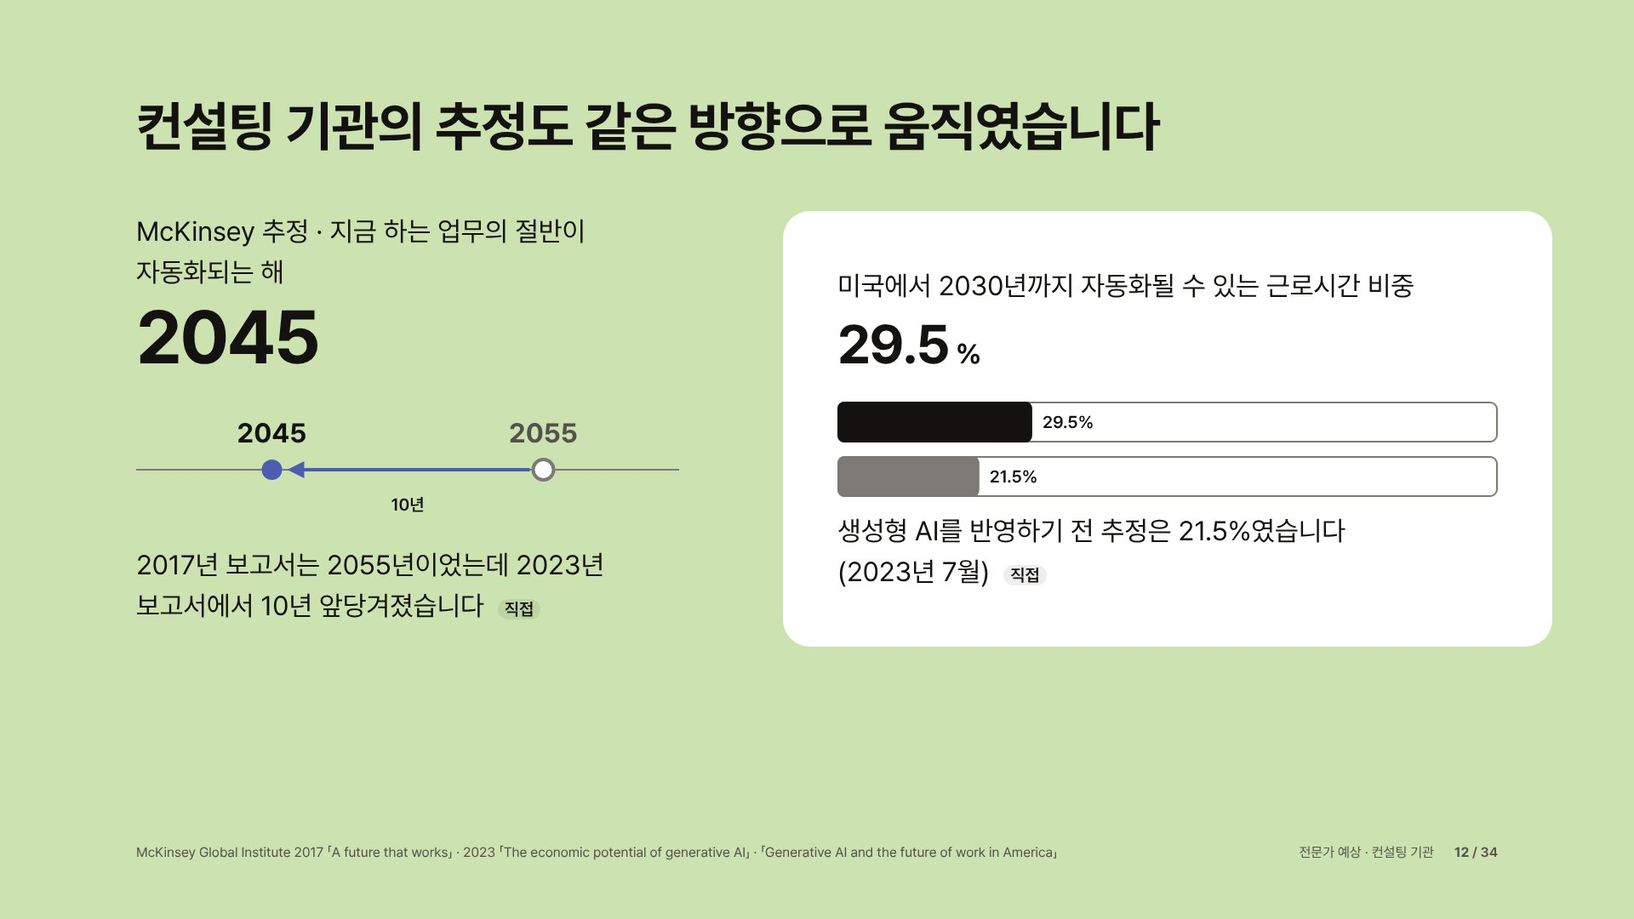
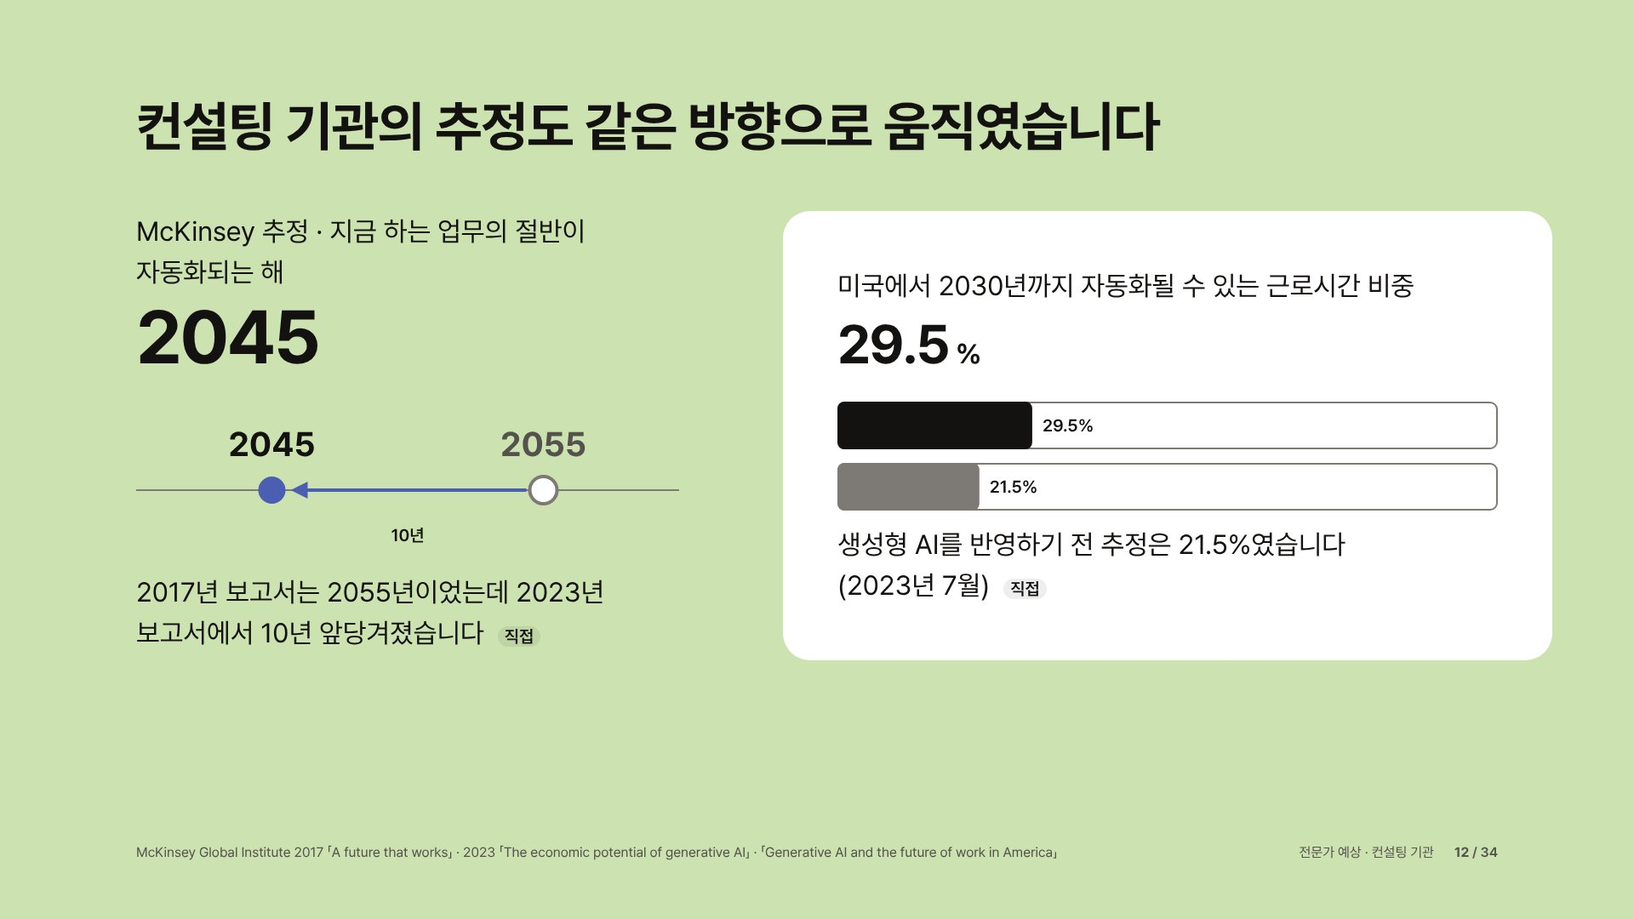
PR2 5회차 — 본문 내용이 결론 줄까지 채움(4장), 17·24장 data-h는 PR3 소유로 기록, minor 정리
- 4장 숫자 면 설명 4줄·간격 48: 본문 끝→결론 선 116 → 84px(본문→결론 32·결론→꼬리말 24 유지)
- 17·24장 차트 높이는 index.html data-h(PR3) 고정 — 480·440 시험으로 84·72px 확인 후 되돌림, 교차 PR로 기록
- 5·21·29장 본문→결론→꼬리말 실측 표, 12장 값 그림 한 단계, 21장 막대 라벨 연도로
- 9장 올트먼 칸 조끼 조각 제거, 30장 같은 행 첫 줄 맞춤, PR-body에 허사비스 사진 인물 확인 필요 기록

Claude-Session: https://claude.ai/code/session_011hN7365EMiHYt3VEVc26nk

diff --git a/presentation/index.html b/presentation/index.html
@@ -217,8 +217,8 @@
     <h2 class="headline">컨설팅 기관의 추정도 같은 방향으로 움직였습니다</h2>
   </div>
   <div class="body cols pair">
-    <div class="c5 fig-col"><div><p>McKinsey 추정 · 지금 하는 업무의 절반이 자동화되는 해</p><div class="num fig">2045</div></div><svg class="yrs" viewBox="0 0 638 136" width="638" height="136" aria-hidden="true"><line class="ax" x1="0" y1="64" x2="638" y2="64"/><path class="mv" d="M462.5 64 L181.5 64" marker-end="url(#yrsa)"/><defs><marker id="yrsa" viewBox="0 0 10 10" refX="8" refY="5" markerWidth="5" markerHeight="5" orient="auto-start-reverse"><path class="mvh" d="M0 0L10 5L0 10z"/></marker></defs><circle class="old" cx="478.5" cy="64" r="12"/><circle class="new" cx="159.5" cy="64" r="12"/><text class="yl old" x="478.5" y="32" text-anchor="middle">2055</text><text class="yl new" x="159.5" y="32" text-anchor="middle">2045</text><text class="vl" x="319.0" y="112" text-anchor="middle">10년</text></svg><p>2017년 보고서는 2055년이었는데 2023년 보고서에서 10년 앞당겨졌습니다 <span class="tag">직접</span></p></div>
-    <div class="c6 at7 fig-col panel end p-paper"><div><p>미국에서 2030년까지 자동화될 수 있는 근로시간 비중</p><div class="num big">29.5<span class="unit">%</span></div><svg class="share" viewBox="0 0 776 112" width="776" height="112" aria-hidden="true"><rect class="tr" x="1" y="1" width="774" height="46" rx="8"/><rect class="now" x="0" y="0" width="228.9" height="48" rx="8"/><text class="vl" x="240.9" y="31.0">29.5%</text><rect class="tr" x="1" y="65" width="774" height="46" rx="8"/><rect class="was" x="0" y="64" width="166.8" height="48" rx="8"/><text class="vl" x="178.8" y="95.0">21.5%</text></svg></div><p>생성형 AI를 반영하기 전 추정은 21.5%였습니다<span class="nowrap">(2023년 7월)</span> <span class="tag">직접</span></p></div>
+    <div class="c5 fig-col"><div><p>McKinsey 추정 · 지금 하는 업무의 절반이 자동화되는 해</p><div class="num fig">2045</div></div><svg class="yrs" viewBox="0 0 638 168" width="638" height="168" aria-hidden="true"><line class="ax" x1="0" y1="88" x2="638" y2="88"/><path class="mv" d="M458.5 88 L185.5 88" marker-end="url(#yrsa)"/><defs><marker id="yrsa" viewBox="0 0 10 10" refX="8" refY="5" markerWidth="5" markerHeight="5" orient="auto-start-reverse"><path class="mvh" d="M0 0L10 5L0 10z"/></marker></defs><circle class="old" cx="478.5" cy="88" r="16"/><circle class="new" cx="159.5" cy="88" r="16"/><text class="yl old" x="478.5" y="48" text-anchor="middle">2055</text><text class="yl new" x="159.5" y="48" text-anchor="middle">2045</text><text class="vl" x="319.0" y="148" text-anchor="middle">10년</text></svg><p>2017년 보고서는 2055년이었는데 2023년 보고서에서 10년 앞당겨졌습니다 <span class="tag">직접</span></p></div>
+    <div class="c6 at7 fig-col panel end p-paper"><div><p>미국에서 2030년까지 자동화될 수 있는 근로시간 비중</p><div class="num big">29.5<span class="unit">%</span></div><svg class="share" viewBox="0 0 776 128" width="776" height="128" aria-hidden="true"><rect class="tr" x="1" y="1" width="774" height="54" rx="8"/><rect class="now" x="0" y="0" width="228.9" height="56" rx="8"/><text class="vl" x="240.9" y="35.0">29.5%</text><rect class="tr" x="1" y="73" width="774" height="54" rx="8"/><rect class="was" x="0" y="72" width="166.8" height="56" rx="8"/><text class="vl" x="178.8" y="107.0">21.5%</text></svg></div><p>생성형 AI를 반영하기 전 추정은 21.5%였습니다<span class="nowrap">(2023년 7월)</span> <span class="tag">직접</span></p></div>
   </div>
   <div class="foot"><span class="source">McKinsey Global Institute 2017 「A future that works」 · 2023 「The economic potential of generative AI」 · 「Generative AI and the future of work in America」</span><span class="where"><span class="sec">전문가 예상 · 컨설팅 기관</span><span class="pg"><b></b> / <span class="tot"></span></span></span></div>
 </section>
@@ -379,7 +379,7 @@
     <h2 class="headline">속도를 늦출 가장 큰 제약은 전기입니다</h2>
   </div>
   <div class="body cols pair">
-    <div class="c6 fig-col"><div><p>데이터센터 전체 전력 증가</p><div class="num big">15<span class="unit">%/년</span></div></div><svg class="twh" viewBox="0 0 776 112" width="776" height="112" aria-hidden="true"><rect class="lo" x="0" y="0" width="263.5" height="48" rx="8"/><text class="vl" x="275.5" y="31.0">415TWh(2024)</text><rect class="on" x="0" y="64" width="600.0" height="48" rx="8"/><text class="vl" x="612.0" y="95.0">945TWh(2030)</text></svg><p>IEA 415TWh(2024) → 945TWh(2030). Epoch AI는 2030년 무렵 가장 먼저 걸릴 제약으로 전력을 지목</p></div>
+    <div class="c6 fig-col"><div><p>데이터센터 전체 전력 증가</p><div class="num big">15<span class="unit">%/년</span></div></div><svg class="twh" viewBox="0 0 776 112" width="776" height="112" aria-hidden="true"><rect class="lo" x="0" y="0" width="263.5" height="48" rx="8"/><text class="vl" x="275.5" y="31.0">2024</text><rect class="on" x="0" y="64" width="600.0" height="48" rx="8"/><text class="vl" x="612.0" y="95.0">2030</text></svg><p>IEA 415TWh(2024) → 945TWh(2030). Epoch AI는 2030년 무렵 가장 먼저 걸릴 제약으로 전력을 지목</p></div>
     <div class="c5 at8 fig-col panel end p-mist"><div><p>가장 큰 AI 모델 학습에 드는 전력</p><div class="num fig">2.9<span class="unit">배/년</span></div></div><svg class="eq" viewBox="0 0 638 176" width="638" height="176" aria-hidden="true"><rect class="lo" x="0" y="0" width="542.0" height="48" rx="8"/><text class="vl" x="554.0" y="31.0">4.1배</text><rect class="lo" x="0" y="64" width="186.4" height="48" rx="8"/><text class="vl" x="198.4" y="95.0">1.41배</text><rect class="on" x="0" y="128" width="383.4" height="48" rx="8"/><text class="vl" x="395.4" y="159.0">2.9배</text></svg><p class="k">학습 연산 증가 연 4.1배를 칩 효율 개선 연 1.41배로 <span class="nowrap">나눈 값</span> <span class="tag est">추정</span></p></div>
   </div>
   <div class="sowe"><b>핵심</b><span>모형에서는 신중 시나리오가 '2028년부터 전력 제약으로 두 배가 되는 기간이 1년으로 늘어나는' 경로입니다</span></div>

diff --git a/presentation/src/slides.css b/presentation/src/slides.css
@@ -462,7 +462,7 @@ body.final .cover .object img { transition: none; }
 .sl8 .bars { justify-content: flex-start; }
 /* 9: 인물 사진은 얼굴 기준으로 자른다(허사비스 사진은 왼쪽 대화 상대를 빼고 본인 쪽만) */
 .s9 .who { align-content: start; }
-.who:nth-child(1) .photo img { position: absolute; left: -25%; top: -30px; width: 130%; height: auto; max-width: none; } /* 왼쪽 옆 사람 어깨를 빼고 얼굴 기준 */
+.who:nth-child(1) .photo img { position: absolute; left: -34%; top: -30px; width: 142%; height: auto; max-width: none; } /* 왼쪽 옆 사람 어깨를 빼고 얼굴 기준 */
 .who:nth-child(2) .photo img { object-position: 50% 10%; }
 .who:nth-child(3) .photo img { position: absolute; left: -70%; top: -14%; width: 174%; height: auto; max-width: none; } /* 원본 오른쪽(본인 쪽)만: 모든 브라우저에서 같은 크롭(object-view-box 안 씀) */
 /* 14: 32 본문, 차트 제목도 32 굵게(크기 단계 5개) */
@@ -544,7 +544,7 @@ body.final .cover .object img { transition: none; }
 :is(.lags, .twh, .eq) .lo { fill: var(--line-strong); } :is(.lags, .twh, .eq) .on { fill: var(--accent); }
 .yrs .ax { stroke: var(--line-strong); stroke-width: 2; } .yrs .mv { fill: none; stroke: var(--accent); stroke-width: 4; } .yrs .mvh { fill: var(--accent); }
 .yrs circle.old { fill: var(--paper); stroke: var(--line-strong); stroke-width: 4; } .yrs circle.new { fill: var(--accent); }
-.yrs .yl { font: var(--t-title) var(--font); } .yrs .yl.old { fill: var(--muted); } .yrs .yl.new { fill: var(--ink); }
+.yrs .yl { font: var(--t-number) var(--font); } .yrs .yl.old { fill: var(--muted); } .yrs .yl.new { fill: var(--ink); }
 :is(.share, .lags, .yrs, .twh, .eq) .vl { font: var(--t-small-strong) var(--font); fill: var(--ink); }
 .twh .on { fill: var(--ink); } /* 21장 인디고는 2.9배 한 곳만 */
 /* 3장: 질문 세 줄 사이를 48로(면 높이는 내용으로), 8장: 막대를 한 단계 키움 */
@@ -556,3 +556,8 @@ body.final .cover .object img { transition: none; }
 .sl8 .bar-row .lab { font: var(--t-body) var(--font); }
 .panel.tbl .plan.big td { padding-top: var(--g8); padding-bottom: var(--g8); }
 .s23 .calc td { padding-top: 0; }
+/* 5회차: 4장 숫자 면이 본문 높이를 내용으로 채움(설명 줄 폭 16em → 4줄, 숫자와 설명 사이 32) — 본문 끝→결론 선 < 96 */
+.s4 .lead-fig { gap: var(--g48); }
+.s4 .lead-fig .k { max-width: 16em; }
+/* 30장: 같은 행의 왼쪽 근거·쟁점·오른쪽 근거 첫 줄을 같은 높이에(형제 문단 위 여백 8을 지움) */
+.body .vsr > p.ai, .body .vsr > p.iss, .body .vsr > p.ot { margin-top: 0; }

diff --git a/qa/reports/pr2.md b/qa/reports/pr2.md
@@ -15,7 +15,7 @@
 
 ## 실행
 
-- 실행: 2026-10-16T19:39:06.132Z · 커밋 cc72436 (덱 파일 미커밋 변경 있음) · 덱 해시 7dc8b64f5b55 · 511초
+- 실행: 2026-10-16T20:36:36.299Z · 커밋 e1d22a6 (덱 파일 미커밋 변경 있음) · 덱 해시 1b699f6089e7 · 433초
 - 명령: `cd presentation && bun scripts/visual-qa.ts --label pr2 --compare=baseline-cloud` · 파이썬 `python3`
 - 스크린샷 링크(`../shots/<label>/`)는 커밋하지 않는다(.gitignore). 같은 명령으로 다시 만든다. 기준선 장 렌더는 커밋된 `qa/before/slide-NN.jpg`와 같다
 - 이 환경에 없는 도구: axe-core · Lighthouse · tesseract → 해당 조건은 직접 잰 근사로 판정하고 '부분' 표시(아래 조건별 메모). OCR은 tesseract 대신 macOS Vision(scripts/ocr_vision.swift, 이번 실행에선 못 씀)으로 IMG-02·RSP-02를 판정
@@ -70,7 +70,7 @@
 | [GRAD-01](#grad-01) | automated | 자동 | 통과 |  |  |
 | [GRAD-02](#grad-02) | both | 자동+수동 | 통과(자동)·수동 남음 |  |  |
 | [GRAD-03](#grad-03) | automated | 자동 | 통과 |  |  |
-| [TYP-01](#typ-01) | automated | 자동 | 실패 ⚠회귀 | 덱 전체 | 다른 글꼴로 렌더: Deck Sans Subset (30534 글리프) |
+| [TYP-01](#typ-01) | automated | 자동 | 실패 ⚠회귀 | 덱 전체 | 다른 글꼴로 렌더: Deck Sans Subset (30502 글리프) |
 | [TYP-02](#typ-02) | automated | 자동 | 실패 | 덱 전체 | charts.js:87 font-size 15 하드코딩(프리셋 밖) |
 | [TYP-03](#typ-03) | automated | 자동 | 통과 |  |  |
 | [TYP-04](#typ-04) | automated | 자동 | 통과 |  |  |
@@ -158,14 +158,14 @@
 | [MOT-08](#mot-08) | both | 자동+수동 | 실패 | 4, 8, 12, 18, 19, 21, 23 | 숫자 팝인 3개(>1) |
 | [MOT-09](#mot-09) | both | 자동+수동 | 실패 | 덱 전체 | design-standard에 모션 목록 절 없음 |
 | [MOT-10](#mot-10) | automated | 자동 | 통과 |  |  |
-| [MOT-11](#mot-11) | automated | 자동 | 실패 | 7 | 탭 복귀 100ms 뒤 차트 빌드 90/2290ms — 반쯤 그려진 채로 보임(3200ms 뒤 2290ms) |
+| [MOT-11](#mot-11) | automated | 자동 | 실패 | 7 | 탭 복귀 100ms 뒤 차트 빌드 92/2290ms — 반쯤 그려진 채로 보임(3198ms 뒤 2290ms) |
 | [A11Y-01](#a11y-01) | automated | 자동 | 실패 | 덱 전체 | 현재 장이 아닌데 inert·aria-hidden 아닌 장 33/33 |
 | [A11Y-02](#a11y-02) | automated | 자동 | 실패 | 덱 전체 | aria-live=polite 영역 없음 |
 | [A11Y-03](#a11y-03) | automated | 자동 | 실패 | 4, 8, 11, 12, 13, 14, 15, 16, 18, 19, 21, 26 | 쪼갠 숫자 "105" aria-label 없음 |
 | [A11Y-04](#a11y-04) | automated | 부분 | 통과 |  |  |
 | [A11Y-05](#a11y-05) | automated | 자동 | 실패 | 덱 전체 | JS 끔: 빈 차트 9(metr_horizon, agi_forecast_shift, espai_two_clocks, occ_scatter, occ_quintile, kr_occupation_index, proj_ca |
 | [A11Y-06](#a11y-06) | automated | 자동 | 통과 |  |  |
-| [PERF-01](#perf-01) | automated | 부분 | 실패 | 덱 전체 | LCP 3040ms(>2500) |
+| [PERF-01](#perf-01) | automated | 부분 | 실패 | 덱 전체 | LCP 3232ms(>2500) |
 | [PERF-02](#perf-02) | automated | 자동 | 통과 |  |  |
 | [PERF-03](#perf-03) | automated | 자동 | 통과 |  |  |
 | [PERF-04](#perf-04) | automated | 자동 | 통과 |  |  |
@@ -551,7 +551,7 @@
 
 실패 1건
 
-- 다른 글꼴로 렌더: Deck Sans Subset (30534 글리프)
+- 다른 글꼴로 렌더: Deck Sans Subset (30502 글리프)
 
 - 메모: 공개 URL의 글꼴 확인은 --public=URL로 돌린다
 
@@ -673,7 +673,7 @@
 실패 2건
 
 - 글꼴 preload 없음
-- Slow 4G 근사에서 글꼴 적용(h1 표시) 9371ms(>1500ms, 최악 3초 초과)
+- Slow 4G 근사에서 글꼴 적용(h1 표시) 9317ms(>1500ms, 최악 3초 초과)
 
 - 메모: CDP 네트워크 제한(150ms RTT·1.6Mbps)·CPU 4배로 근사. 실제 회선·기기 아님
 
@@ -1734,7 +1734,7 @@
 - 17장 · 차트 빌드 2570ms(>1500)
 - 24장 · 차트 빌드 1830ms(>1500)
 - 26장 · 차트 빌드 3220ms(>1500)
-- 7장 · 떠난 장의 차트 타임라인이 계속 돎(paused false, 251/2290ms)
+- 7장 · 떠난 장의 차트 타임라인이 계속 돎(paused false, 0/2290ms)
 
 근거: [slide-07.jpg](../shots/pr2/slide-07.jpg) · [slide-10.jpg](../shots/pr2/slide-10.jpg) · [slide-11.jpg](../shots/pr2/slide-11.jpg) · [slide-13.jpg](../shots/pr2/slide-13.jpg) · [slide-17.jpg](../shots/pr2/slide-17.jpg) · [slide-24.jpg](../shots/pr2/slide-24.jpg)
 
@@ -1860,7 +1860,7 @@
 
 실패 1건 · 장 7
 
-- 7장 · 탭 복귀 100ms 뒤 차트 빌드 90/2290ms — 반쯤 그려진 채로 보임(3200ms 뒤 2290ms)
+- 7장 · 탭 복귀 100ms 뒤 차트 빌드 92/2290ms — 반쯤 그려진 채로 보임(3198ms 뒤 2290ms)
 
 - 메모: 탭 숨김은 document.hidden·visibilitychange를 10초 바꿔 모사(실제 탭 전환 아님). 돌아온 100ms 뒤 완성 상태여야 통과
 
@@ -1876,7 +1876,7 @@
 실패 2건
 
 - 현재 장이 아닌데 inert·aria-hidden 아닌 장 33/33
-- Tab 40회 중 다른 장으로 샌 포커스 24: other:34
+- Tab 40회 중 다른 장으로 샌 포커스 17: other:34
 
 ### A11Y-02
 
@@ -1967,7 +1967,7 @@
 
 실패 1건
 
-- LCP 3040ms(>2500)
+- LCP 3232ms(>2500)
 
 - 메모: Lighthouse가 없어 CDP(150ms RTT·1.6Mbps·CPU 4배)와 PerformanceObserver로 근사. 로컬 서버만, 공개 URL은 --public
 

diff --git a/qa/pr/02/PR-body.md b/qa/pr/02/PR-body.md
@@ -8,6 +8,12 @@
 - **2장 장식을 데이터 도식으로 바꿨습니다.** 두 배 기간 188→129→105일을 고리 지름에 비례하게 그렸습니다.
 - **글이 적은 장은 본문을 32 보통 굵기로 키워 장 높이를 씁니다.**
 
+5회차(독립 검증 4회차의 남은 major 하나):
+
+- **본문→결론(32)·결론→꼬리말(24)을 동시에 지키면서 본문 내용이 남는 높이를 채웁니다.** 4장은 숫자 면 설명을 4줄·간격 48로 바꿔 본문 끝→결론 선 116 → 84px입니다. 5·21·29장은 52·44·39px입니다.
+- **17·24장(147·115px)은 차트 높이 고정 탓 — PR3 소유(PR7 통합 때 data-h 조정).** index.html 313·453행의 `data-h`(420·400)를 charts.js 216행이 svg 높이로 씁니다. 480·440이면 84·72px로 기준 안입니다(시험 후 되돌림).
+- 12장 값 그림 한 단계, 21장 막대 라벨을 연도로(같은 글자 두 번 0), 9장 올트먼 칸 조끼 조각 0, 30장 같은 행 첫 줄 맞춤.
+
 4회차(독립 검증 3회차 불합격 뒤 오케스트레이터 지시)에서 바꾼 것:
 
 - **속 빈 면·열을 걷었습니다.** 면·열을 본문 높이로 늘리던 stretch와 위·아래로 벌리던 space-between을 지우고 덩어리를 위에 붙였습니다. 덩어리 사이 빈 세로 구간은 33개 장 모두 96 미만(최대 85px)이며 표는 violations.md 「4회차」 절에 있습니다. 남는 높이는 값을 그대로 그린 그림(12·15·20·21장, 덱에 있는 숫자만 라벨, 대비 3:1 이상)과 8장 막대 한 단계로 씁니다.
@@ -28,7 +34,7 @@
 - 1회차에 한 일은 그대로입니다. 헤드라인은 모든 장 (160,112)에 고정했고, 색(인디고·세이지)과 모서리 체계는 유지했습니다.
 - 글꼴은 덱 글자만 담은 부분 파일 Deck Sans Subset(OFL 파생, 167KB)입니다.
 - 모션 시간·이징은 토큰으로, :hover는 미디어 조건 안으로 옮겼습니다.
-- 배정 142건: **고침 121 · 부분·타PR 16 · 부분·충돌인정 5 · 부분·범위안 0 · 안 고침 0**
+- 배정 142건: **고침 119 · 부분·타PR 18 · 부분·충돌인정 5 · 부분·범위안 0 · 안 고침 0**
 - critical V1-01(5장 도식 13px)은 화면 쪽을 고쳤습니다. 도식을 1:1로 그리고 최소 20px로 올렸습니다. 남은 것은 fit.js의 `.chain text`(PR1)와 README(PR7)입니다.
 - 맡은 파일만 바꿨습니다: `src/tokens.css`·`src/deck.css`(차트 블록 제외)·`src/slides.css`·`index.html` 본문 구조. 그 밖에 오케스트레이터 지시로 추가한 것은 `assets/fonts/DeckSansSubset.woff2`, `assets/fonts/DeckSansSubset-NOTICE.txt`, `scripts/font-subset.py`입니다.
 - chart-data 블록, 차트 div 안쪽, `<head>`, `<script>`는 바이트 단위로 그대로입니다.
@@ -39,8 +45,8 @@
 
 | 상태 | 건수 | 주요 사유 |
 | --- | --- | --- |
-| 고침 | 121 | 조건 전부 통과 + 렌더 눈 확인 + 헤더→첫 내용 64·덩어리 사이 빈 구간 <96(DOM 실측) |
-| 부분·타PR | 16 | 남은 몫이 다른 PR 파일: 차트 div 안 범례·라벨·색(PR3), 이미지(PR6), README(PR7), fit.js(PR1), 문장(PR5) |
+| 고침 | 119 | 조건 전부 통과 + 렌더 눈 확인 + 헤더→첫 내용 64·덩어리 사이 빈 구간 <96(DOM 실측) |
+| 부분·타PR | 18 | 남은 몫이 다른 PR 파일: 차트 div 안 범례·라벨·색(PR3), 이미지(PR6), README(PR7), fit.js(PR1), 문장(PR5) |
 | 부분·충돌인정 | 5 | 오케스트레이터가 인정한 조건 충돌: TYP-09 최대/본문(20·25·28~32장), LAY-09 34장 |
 | 부분·범위안 | 0 | — |
 | 안 고침 | 0 | — |
@@ -129,12 +135,14 @@
 
 - PR4의 글꼴 preload(`<head>`)를 `<link rel="preload" href="assets/fonts/DeckSansSubset.woff2" as="font" type="font/woff2" crossorigin>`로 바꿔야 합니다.
 - PR3·PR4·PR5를 병합한 뒤 `presentation/`에서 `python3 scripts/font-subset.py`를 다시 돌려야 합니다. 새 글자가 부분 파일과 unicode-range에 들어가야 합니다.
+- PR3·PR7: 17장 `data-h` 420 → 480, 24장 400 → 440(index.html 313·453행). 본문 끝→결론 선이 96 아래로 들어옵니다.
 - PR1 판정기 TYP-01이 Pretendard 파생 부분 파일 이름을 허용하게 해야 합니다.
 - PR1 판정기 메모: LAY-04는 `.body` 상자 top만 잽니다(첫 보이는 내용으로 재야 함). CARD-05는 `::before`만 있는 요소(pseudoOnly 상자)에서 `s.split` 오류로 판정 전체가 error가 됩니다. EVD-03(출처 <20px)과 TYP-03(범례 ≥18px)은 같은 `.chart-src` 줄을 두고 서로 맞지 않습니다.
 - squash 병합을 권합니다. 7c5ed46 이력에 예약 이름을 그대로 쓴 부분 파일이 남아 있습니다.
 
 ## 확인 못 한 것
 
+- 9장 허사비스 사진: 원본 설명에서 크롭한 인물이 허사비스인지 사람이 확인해야 합니다. CREDITS.md 출처는 Commons 'Demis_Hassabis_at_2024_Nobel_Week_2.jpg'이고, 두 사람 중 오른쪽 사람으로 크롭했습니다(이 환경에서 Commons 접속 403).
 - OCR(macOS Vision 전용)은 돌리지 못했습니다.
 - 실제 프로젝터와 실기기는 확인하지 못했습니다. CDP 에뮬레이션만 했습니다.
 - Slow 4G 글꼴 적용 시간은 CDP 근사로만 쟀습니다.

diff --git a/qa/pr/02/LOG.md b/qa/pr/02/LOG.md
@@ -13,3 +13,4 @@
 | 9 | 3장 색 면 폭 977→885(CARD-03), 문서 갱신 | 최종 전체 qa-all: 통과 65·실패 77·수동 5·오류 0, 회귀 3(TYP-01 판정기 결함 인정, CHT-05 PR3, CTL-02 재생 버튼 기준선 복귀의 결과) | 고침 123 · 부분 15 · 다른 PR 소유 4 |
 | 10 | 독립 검증 2회차 불합격(verify-r2.md)과 오케스트레이터 3회차 지시. `.body.cols` align-content center 삭제(33장 헤더→첫 내용 64 실측), 남는 높이는 면 높이·줄 나눔·본문 32·값 그림(12·15·20장)으로. 고정 y 띠 삭제 → 내용 덩어리에 붙은 띠(7·20·32·33). 30장 가운데 쟁점 표, 31장 첫 열 27%+거터 24, 32장 일정 먼저. 9장 얼굴 자르기. 3·15·21장 면 오른쪽, 20장 위아래, 22장 사진 왼쪽. 출처 줄 꺾임·줄머리·고아·23장 끝선·25장 열·R² 띄어쓰기 | 전체 qa-all 1차: 회귀 11(CARD-05 판정 오류 = ::before 띠, LAY-06 띠 스크롤 넘침·9장 사진, CARD-07 그림 모서리, TYP-06/07/12·EVD-03 `.chart-src` 20px, STD-03 등) → 띠를 ::after 번짐 없는 그림자로, `.chart-src` 16px로 되돌림(범례 18px은 PR3 소유로 기록), 그림 크기 1:1. 최종: 통과 64·실패 78·수동 5·오류 0, 회귀 4(TYP-01 판정기 결함 인정, CHT-05 PR3, CTL-02 재생 버튼, NAV-04 흔들림 — 단독 3회 모두 통과 142/133/7ms 첫 표본) | 고침 120 · 부분·타PR 17 · 부분·충돌인정 5 · 부분·범위안 0 · 안 고침 0 |
 | 11 | 독립 검증 3회차 불합격(verify-r3.md)과 오케스트레이터 4회차 지시. 면·열 stretch·space-between·줄 늘림 삭제(덩어리 위에 붙임, 덩어리 사이 빈 구간 최대 85px), 남는 높이는 값 그림(12·15·20·21장, 값 라벨·대비 3:1)과 8장 막대 한 단계로. 휴대폰 인라인 svg 글자: geometricPrecision + text-size-adjust 100%(2·32장 네 조건 촬영). 30장 좌우 반면 필드(28~32 같은 틀 연속 0). 9장 사진을 표준 CSS(감싼 칸 + img 폭·위치)로. 32장 띠 끝 48 | 전체 qa-all 1차: 회귀 6(LAY-04 30장 형제 간격, LAY-06 15·16·23 넘침, TYP-07 20·30 고아 등) → 30장 행 div, 그림 크기·표 칸 여백, nowrap. 2차: token-check 1(px 여백)·CARD-07 15장 → calc·rx 8. 최종: 통과 65·실패 77·수동 5·오류 0, 회귀 3(TYP-01·CHT-05·CTL-02 — 3회차 검증과 같음), 모든 단계 0(visual-qa 1) | 고침 121 · 부분·타PR 16 · 부분·충돌인정 5 · 부분·범위안 0 · 안 고침 0 |
+| 12 | 독립 검증 4회차(verify-r4.md) 남은 major N1(본문→결론 벌어짐 4·17·24장)과 minor. 4장 숫자 면 설명 4줄·간격 48(본문 끝→결론 선 84), 17·24장은 차트 data-h(PR3) 고정 — data-h 480·440 시험으로 84·72 확인 후 되돌림, PR3 소유로 기록. 12장 값 그림 한 단계, 21장 막대 라벨 연도로, 9장 올트먼 칸 조끼 제거, 30장 행 첫 줄 맞춤, PR-body에 허사비스 사진 인물 확인 필요 기록 | 전체 qa-all: 통과 65·실패 77·수동 5·오류 0, 회귀 3(TYP-01·CHT-05·CTL-02), 모든 단계 0(visual-qa 1) | 고침 119 · 부분·타PR 18 · 부분·충돌인정 5 · 부분·범위안 0 · 안 고침 0 |
